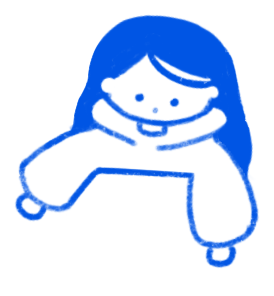
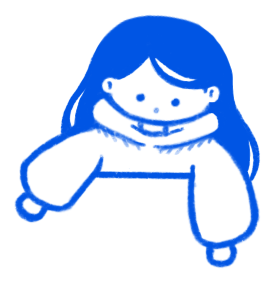
play page/doodle pad: added a custom arrow indicator for play page, new dialogue options for doodle peek, added back wrap text, new doodle peek illustration

Changed region(s): [[0.0292, 0.0282, 0.9635, 0.9577], [0.4964, 0.3099, 0.5255, 0.3662]]

diff --git a/play.html b/play.html
@@ -347,7 +347,7 @@ body {
   height: auto;
   transform: translateY(-60%);
   transform-origin: bottom center;
-  pointer-events: none;
+  pointer-events: auto;
   z-index: 20;
 }
 .doodle-stop {
@@ -401,17 +401,14 @@ body {
   position: absolute;
   top: 20px;
   left: 26px;
-  font-family: var(--font-hand);
-  font-size: 24px;
-  color: rgba(26,82,212,0.45);
+  width: 32%;
+  min-width: 140px;
+  max-width: 260px;
+  height: auto;
   transform: rotate(-3deg);
   pointer-events: none;
-  display: flex;
-  align-items: center;
-  gap: 8px;
   transition: opacity 0.5s ease;
 }
-.doodle-hint svg { flex-shrink: 0; transform: translateY(3px); }
 .doodle-canvas-wrap.has-drawn .doodle-hint { opacity: 0; }
 .doodle-toolbar {
   display: flex;
@@ -462,6 +459,72 @@ body.doodle-hover .cur-dot,
 body.doodle-hover .cur-ring,
 body.doodle-hover .cur-label {
   opacity: 0 !important;
+}
+.doodle-peek-bubble {
+  position: fixed;
+  background: #ffffff;
+  border: 1.5px solid #1a52d4;
+  border-radius: 4px;
+  padding: 8px 12px;
+  white-space: normal;
+  max-width: 200px;
+  opacity: 0;
+  pointer-events: none;
+  z-index: 9999;
+  transform: translateY(-50%) translateX(-6px) scale(0.95);
+  transition: opacity 0.2s ease, transform 0.25s cubic-bezier(0.34,1.56,0.64,1);
+}
+.doodle-peek-bubble::before {
+  content: '';
+  position: absolute;
+  left: -10px;
+  top: 50%;
+  transform: translateY(-50%);
+  width: 0; height: 0;
+  border-top: 9px solid transparent;
+  border-bottom: 9px solid transparent;
+  border-right: 10px solid #1a52d4;
+}
+.doodle-peek-bubble::after {
+  content: '';
+  position: absolute;
+  left: -7.5px;
+  top: 50%;
+  transform: translateY(-50%);
+  width: 0; height: 0;
+  border-top: 7px solid transparent;
+  border-bottom: 7px solid transparent;
+  border-right: 8.5px solid #ffffff;
+}
+.doodle-peek-bubble.visible {
+  opacity: 1;
+  transform: translateY(-50%) translateX(0) scale(1);
+}
+.doodle-peek-bubble-text {
+  font-family: 'Space Mono', monospace;
+  font-size: 12px;
+  font-weight: 700;
+  color: #1a52d4;
+  line-height: 1.4;
+}
+.doodle-divider-arrow {
+  position: absolute;
+  left: 50%;
+  bottom: 3px;
+  display: block;
+  width: 30px;
+  height: auto;
+  transform: translateX(-50%);
+  z-index: 2;
+}
+@media (prefers-reduced-motion: no-preference) {
+  .doodle-divider-arrow {
+    animation: doodle-divider-arrow-bounce 1.6s ease-in-out infinite;
+  }
+}
+@keyframes doodle-divider-arrow-bounce {
+  0%, 100% { transform: translateX(-50%) translateY(0); }
+  50% { transform: translateX(-50%) translateY(4px); }
 }
 </style>
 <link rel="stylesheet" href="/src/css/layout.css"/>
@@ -572,19 +635,14 @@ body.doodle-hover .cur-label {
             </svg>
           </span>
           <p class="cs-illustration-caption">looks like you got off at the wrong stop...<br>might as well doodle something below</p>
+          <img src="/doodle-divider-arrow.png" alt="" class="doodle-divider-arrow" />
         </div>
 
         <div class="doodle-body">
           <div class="doodle-divider">stop 04 — doodle pad</div>
           <div class="doodle-canvas-wrap" id="doodle-wrap">
-            <img src="/doodle-peek.png" alt="" class="doodle-peek" />
-            <div class="doodle-hint" id="doodle-hint">
-              doodle here
-              <svg width="30" height="20" viewBox="0 0 30 20" fill="none">
-                <path d="M1 10 C10 2, 20 2, 28 9" stroke="currentColor" stroke-width="1.8" stroke-linecap="round" fill="none"/>
-                <path d="M22 5 L28 9 L21 11" stroke="currentColor" stroke-width="1.8" stroke-linecap="round" stroke-linejoin="round" fill="none"/>
-              </svg>
-            </div>
+            <img src="/doodle-peek.png" alt="" class="doodle-peek" id="doodle-peek-hotspot" />
+            <img id="doodle-hint" class="doodle-hint" src="/doodle-hint.png" alt="" />
             <canvas id="doodle-canvas"></canvas>
           </div>
           <div class="doodle-toolbar">
@@ -742,6 +800,59 @@ body.doodle-hover .cur-label {
     pencil.style.left = e.clientX + 'px';
     pencil.style.top = e.clientY + 'px';
   });
+})();
+</script>
+<script>
+(function () {
+  const DOODLE_PEEK_LINES = [
+    "ooh what are we making",
+    "definitely not spying...",
+    "make it weird",
+    "but don't make it too sus...",
+    "oh what da heck",
+    "have fun!",
+    "if you don't like it, just clear it",
+  ];
+
+  const hotspot = document.getElementById('doodle-peek-hotspot');
+  if (!hotspot) return;
+
+  const bubble = document.createElement('div');
+  bubble.className = 'doodle-peek-bubble';
+  bubble.innerHTML = `<div class="doodle-peek-bubble-text" id="doodle-peek-bubble-text"></div>`;
+  document.body.appendChild(bubble);
+
+  const bubbleText = document.getElementById('doodle-peek-bubble-text');
+  let lineIndex = 0;
+  let hideTimeout = null;
+
+  function positionBubble() {
+    const rect = hotspot.getBoundingClientRect();
+    bubble.style.left = (rect.right + 12) + 'px';
+    bubble.style.top = (rect.top + rect.height * 0.3) + 'px';
+  }
+
+  function showBubble() {
+    clearTimeout(hideTimeout);
+    positionBubble();
+    bubbleText.textContent = DOODLE_PEEK_LINES[lineIndex];
+    lineIndex = (lineIndex + 1) % DOODLE_PEEK_LINES.length;
+    bubble.classList.add('visible');
+  }
+
+  function hideBubble() {
+    hideTimeout = setTimeout(() => {
+      bubble.classList.remove('visible');
+    }, 150);
+  }
+
+  hotspot.addEventListener('mouseenter', showBubble);
+  hotspot.addEventListener('mouseleave', hideBubble);
+
+  window.addEventListener('scroll', () => {
+    if (bubble.classList.contains('visible')) positionBubble();
+  }, { passive: true });
+  window.addEventListener('resize', positionBubble);
 })();
 </script>
 <script>
